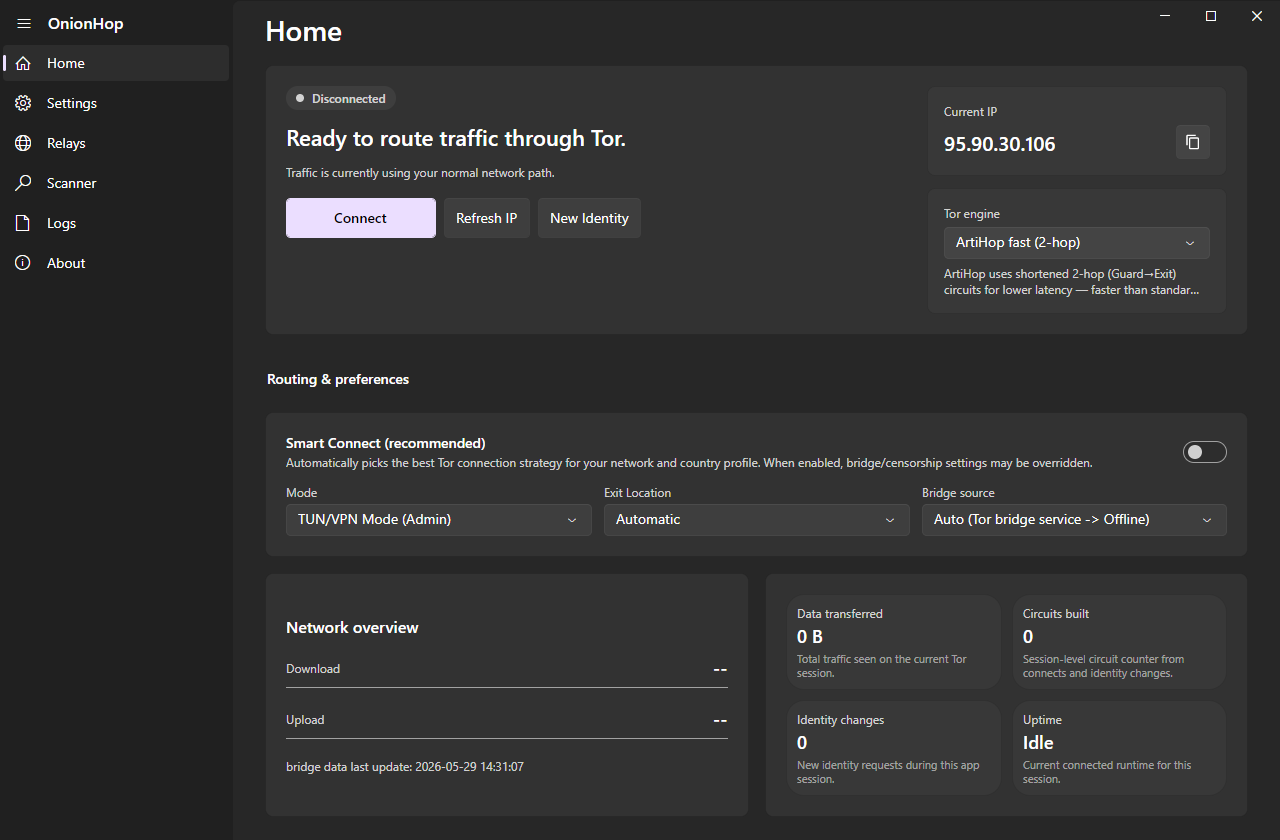
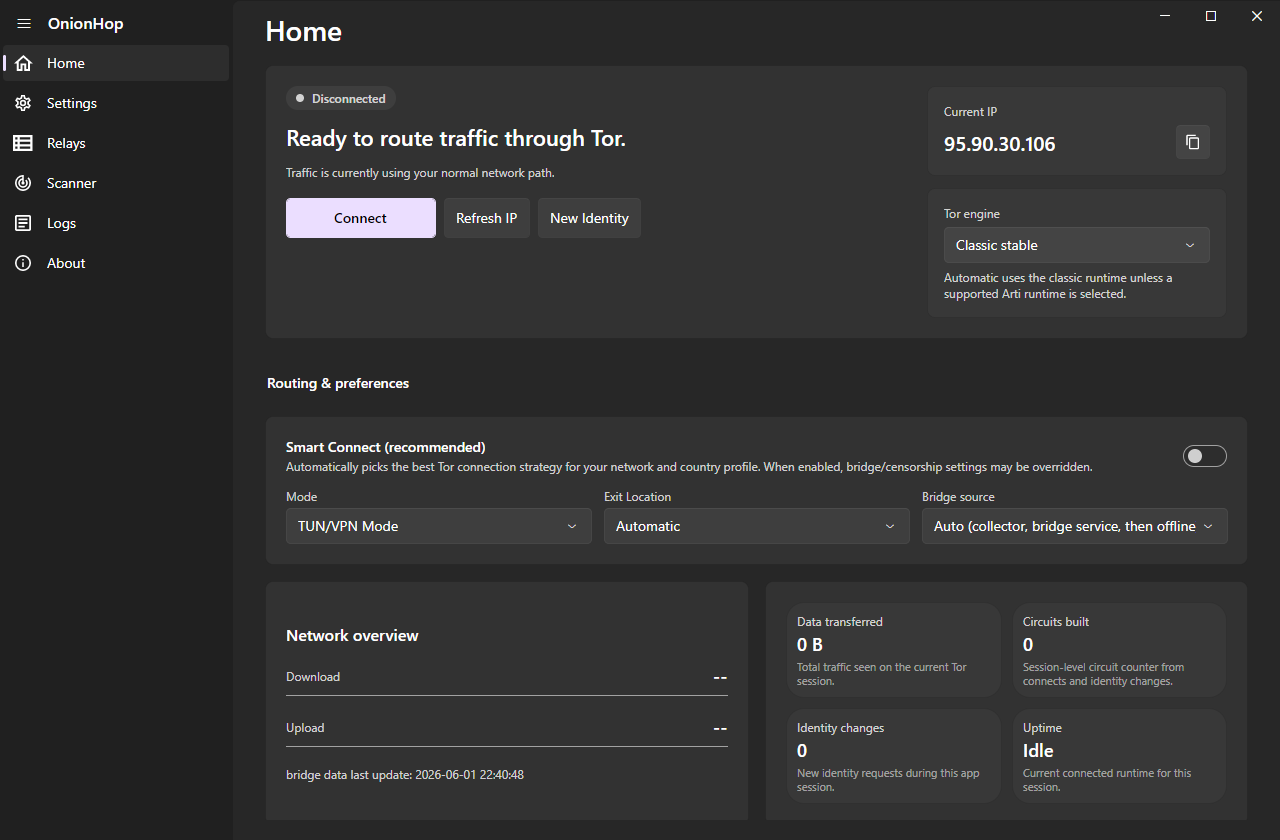
docs: cross-platform README + refreshed v3 screenshot for the v3.0.0 launch

diff --git a/README.md b/README.md
@@ -9,7 +9,7 @@
 </div>
 
 <div align="center">
-  <a href="https://github.com/center2055/OnionHop/releases">
+  <a href="https://github.com/center2055/OnionHop/releases/latest">
     <img src="https://img.shields.io/badge/Download-Latest%20Release-blue?style=for-the-badge&logo=github" alt="Download Latest Release"/>
   </a>
   <a href="https://ko-fi.com/center2055">
@@ -17,63 +17,70 @@
   </a>
 </div>
 
-**OnionHop V3** is a modern Windows desktop app that routes your traffic through **Tor**, with a redesigned native Windows 11 / Fluent interface and a chromeless, integrated title bar. It can run Tor as a local SOCKS proxy or as a system-wide tunnel, scan and pick working bridges for censored networks, and even let you volunteer as a Snowflake proxy.
+<div align="center">
+  <img src="https://img.shields.io/badge/Windows-0078D6?style=flat&logo=windows&logoColor=white" alt="Windows"/>
+  <img src="https://img.shields.io/badge/macOS-000000?style=flat&logo=apple&logoColor=white" alt="macOS"/>
+  <img src="https://img.shields.io/badge/Linux-FCC624?style=flat&logo=linux&logoColor=black" alt="Linux"/>
+</div>
+
+**OnionHop V3** is a modern, **cross-platform** desktop app (Windows, macOS and Linux) that routes your traffic through **Tor**. It can run Tor as a local SOCKS proxy or as a system-wide tunnel, automatically pick a working connection strategy for your network with **Smart Connect**, scan and apply working bridges for censored networks across every transport, and even let you volunteer as a Snowflake proxy.
 
 > **Disclaimer**
 > OnionHop is provided "as-is". Tor usage can be illegal or restricted in some jurisdictions. You are responsible for complying with local laws and regulations.
 
 ---
 
-## What's new in V3
+## What's new in V3 (since v2.7)
 
-- **Redesigned UI** — native Windows 11 / Fluent look (FluentAvalonia), light/dark/follow-system themes, an accent picker, and an integrated chromeless title bar (no separate OS title bar, still fully draggable).
-- **Three Tor engines** — choose per connection:
-  - **Classic** (`tor.exe`): full control — bridges, country/entry/exit pinning, and control-port **New Identity** (NEWNYM).
-  - **Arti**: the Rust Tor implementation.
-  - **ArtiHop (2-hop)**: shortened Guard→Exit circuits for lower latency (faster than standard 3-hop, with correspondingly weaker anonymity), now with live **New Identity** support.
-- **Bridge Scanner** — fetch and TCP-test bridges of **every transport type** (obfs4, webtunnel, vanilla, snowflake, meek, conjure), see color-coded reachability/latency, and export or one-click apply the bridges that actually work on your network. Fronted transports (snowflake/meek/conjure) are tested by probing their broker/front host.
+V3 is a ground-up rebuild on a new cross-platform UI stack, with a much smarter connection engine and a far wider set of censorship-resistant transports.
+
+- **Now cross-platform** — native desktop builds for **Windows**, **macOS** (signed & notarized universal app) and **Linux** (AppImage). Same app, native look on each OS.
+- **Redesigned UI** — Fluent/native look (FluentAvalonia), light/dark/follow-system themes, an accent picker, an integrated chromeless title bar on Windows and native window chrome on macOS, and **5 languages** (English, German, French, Chinese, Russian).
+- **Smart Connect** — an offline censorship "brain" that auto-picks the best connection strategy for your network and country: it knows where Tor is blocked, prefers transports that survive there, pre-tests bridge reachability, races strategies in parallel, fails fast off dead paths, and remembers what worked on each network so the next connect is instant.
+- **Three Tor engines** — **Classic** (`tor.exe`, full control: bridges, country/entry/exit pinning, control-port New Identity), **Arti** (the Rust Tor implementation), and **ArtiHop** (shortened 2-hop Guard→Exit circuits for lower latency, with live New Identity).
+- **More censorship-resistant transports** — obfs4, **snowflake** (with optional AMP-cache fronting), **webtunnel**, **conjure**, meek, and **dnstt** (a DNS tunnel that gets Tor through when only DNS is allowed).
+- **Bridge Scanner** — fetch and reachability-test bridges of every transport, see color-coded latency, and one-click apply the ones that actually work on your network.
+- **More bridge sources** — the official Tor bridge service, the censorship-resistant [OnionHop Bridges Collector](https://github.com/center2055/OnionHop-Bridges-Collector) (derived from [Delta-Kronecker/Tor-Bridges-Collector](https://github.com/Delta-Kronecker/Tor-Bridges-Collector)), built-in community bridges, and a thin-set top-up so a tiny live fetch is automatically backed by bundled bridges.
+- **Relays browser** — search the live Tor relay list by nickname, country, role, flags and bandwidth, and pin a preferred entry/middle/exit.
+- **Command-line interface** — a full-featured TUI (`OnionHopV3.Cli`) with a live status dashboard, connect/scan/bridges/snowflake/relays commands and settings persistence. *(Windows now; Linux & macOS CLI coming soon.)*
+- **Stronger leak protection** — optional full DNS-over-Tor, a kill switch, UDP blocking in TUN mode, and an in-app WebRTC/UDP privacy notice.
 - **Volunteer as a Snowflake proxy** — help censored users reach Tor, straight from Settings.
-- **Decoupled system-proxy toggle** — turn the Windows system proxy off while Tor stays connected.
-- **Stronger leak protection** — optional full DNS-over-Tor so system DNS doesn't bypass Tor in Proxy Mode, plus an in-app WebRTC/UDP privacy notice.
-- **Extra bridge source** — an additional, censorship-resistant [bridge collector](https://github.com/center2055/OnionHop-Bridges-Collector) endpoint is used as a fallback when the official bridge service is unavailable.
+- **Quality-of-life** — decoupled system-proxy toggle (turn it off while Tor stays connected), an opt-in persistent admin helper to skip repeat UAC prompts in TUN mode (off by default), an in-app changelog, and Bitcoin donations.
+
+---
+
+## Download
+
+Grab the latest build for your platform from **[Releases](https://github.com/center2055/OnionHop/releases/latest)**:
+
+| Platform | File | Notes |
+| :--- | :--- | :--- |
+| **Windows** | `OnionHop-Setup-v3.exe` | Installer (self-contained, .NET runtime bundled) |
+| **Windows** | `OnionHopV3-Portable-…win-x64.zip` | Portable, no install |
+| **Linux** | `OnionHop-x86_64.AppImage` | `chmod +x` and run |
+| **macOS** | `OnionHop-3.0.0-macOS.dmg` | Signed & notarized; universal (Apple Silicon + Intel) — from the [macOS repo](https://github.com/rana-gmbh/onionhopMac/releases/latest) |
+| **Windows CLI** | `OnionHop-CLI-Setup-3.0.0.exe` / `…Portable…zip` | Terminal interface |
+
+> The macOS `.dmg` is published from the dedicated, code-signing [rana-gmbh/onionhopMac](https://github.com/rana-gmbh/onionhopMac/releases/latest) repository.
 
 ---
 
 ## Getting started
 
-1. **Install**
-   - Download the latest release from [Releases](https://github.com/center2055/OnionHop/releases).
-   - Run the Windows installer (`OnionHop-Setup-v3.exe`). It is self-contained — the .NET 9 runtime is bundled, so there's nothing else to install.
+1. **Install** the build for your OS (above). The Windows installer and the macOS/Linux bundles are self-contained — the .NET 9 runtime is bundled.
 
 2. **Choose a mode**
-   - **Proxy Mode (recommended, no admin):** starts Tor locally and points the Windows system proxy at Tor's local SOCKS5 endpoint. Best compatibility for proxy-aware apps.
-   - **TUN/VPN Mode (admin):** system-wide routing via **sing-box** + **Wintun**; needed for apps that ignore proxy settings. Leak-resistant (DNS through Tor, UDP blocked).
+   - **Proxy Mode (recommended, no admin):** runs Tor locally and points the OS system proxy at Tor's local SOCKS5 endpoint. Best compatibility for proxy-aware apps.
+   - **TUN/VPN Mode (admin):** system-wide routing via **sing-box** (Wintun on Windows, the system TUN on macOS/Linux); needed for apps that ignore proxy settings. Leak-resistant (DNS through Tor, UDP blocked).
 
 3. **Connect**
-   - Optionally pick a **Tor engine**, an **Exit Location** (and an **Entry Node** in Advanced settings).
-   - Enable **Bridges** if your network blocks Tor — or open the **Scanner** to find bridges that work in your region.
+   - Leave **Smart Connect** on to let OnionHop pick the best strategy automatically, **or** pick a **Tor engine** / **Exit Location** / **Bridges** yourself.
+   - In a censored network, enable **Bridges** or open the **Scanner** to find bridges that work in your region.
    - Click **Connect**.
 
 Notes
 - `.onion` sites require a Tor-aware client (Tor Browser recommended) or SOCKS remote DNS (e.g., Firefox "Proxy DNS when using SOCKS v5").
 - Bridges, country/relay pinning and control-port New Identity require the **Classic** engine; Arti/ArtiHop run as a SOCKS proxy runtime.
-
----
-
-## Startup activity and permissions
-
-On startup OnionHop runs a few background tasks so the UI shows status immediately and is ready when you connect. It may:
-
-- look up your current public IP status,
-- refresh the Tor relay country list (Onionoo),
-- fetch GitHub release/changelog metadata for update and About surfaces,
-- ensure Tor / pluggable-transport dependencies exist (first run can download Tor components).
-
-### Permissions
-
-- **Network access** — IP checks, Onionoo country data, GitHub release metadata, bridge sources, and dependency downloads.
-- **Administrator** — only for features that change system networking: **TUN/VPN mode**, **kill switch**, or system **DNS/proxy** changes.
-- **Folder access** — store settings, startup logs, runtime data, downloaded Tor/VPN binaries, bridge cache, and any log export location you choose.
 
 ---
 
@@ -90,22 +97,23 @@ On startup OnionHop runs a few background tasks so the UI shows status immediate
 ## Modes explained
 
 ### Proxy Mode (recommended)
-Starts Tor locally and sets the Windows proxy to Tor's SOCKS5 endpoint. No admin required. You can toggle the system proxy off without disconnecting Tor.
+Runs Tor locally and sets the OS proxy to Tor's SOCKS5 endpoint. No admin required. You can toggle the system proxy off without disconnecting Tor.
 
 ### TUN/VPN Mode (admin)
-Starts Tor + **sing-box** and routes traffic at the OS level (Wintun on Windows). Requires Administrator. Most leak-resistant.
+Runs Tor + **sing-box** and routes traffic at the OS level (Wintun on Windows, system TUN on macOS/Linux). Requires Administrator. Most leak-resistant.
 
 ### Hybrid (split tunneling)
 Only in TUN/VPN Mode — route selected apps through Tor while others stay direct.
 
 ---
 
-## Settings storage
+## Permissions
 
-OnionHop stores settings and runtime data in the OS application-data folders, e.g.:
+- **Network access** — IP checks, Onionoo relay/country data, GitHub release metadata, bridge sources, and dependency downloads.
+- **Administrator / root** — only for features that change system networking: **TUN/VPN mode**, **kill switch**, or system **DNS/proxy** changes.
+- **Folder access** — store settings, logs, runtime data, downloaded Tor/transport binaries, the bridge cache, and any log export location you choose.
 
-- `%AppData%\OnionHop\settings.json`
-- `%LocalAppData%\OnionHop\startup.log`
+Settings and runtime data live in the OS application-data folders, e.g. `%AppData%\OnionHop\settings.json` (Windows) or `~/Library/Application Support/OnionHop/` (macOS).
 
 ---
 
@@ -113,27 +121,27 @@ OnionHop stores settings and runtime data in the OS application-data folders, e.
 
 Prerequisites:
 - .NET SDK 9
-- Inno Setup 6 (for the installer)
-- *(optional)* Rust toolchain to build the **ArtiHop** engine, and Go to build the **Snowflake proxy** / **webtunnel** client — these are fetched/built by `download-deps.ps1`; if a toolchain is missing, that engine/feature is simply skipped.
+- Inno Setup 6 (Windows installer)
+- *(optional)* Rust toolchain to build the **ArtiHop** engine, and Go to build the **Snowflake proxy** / **webtunnel** / **dnstt** clients — these are fetched/built by the dependency scripts; if a toolchain is missing, that engine/feature is simply skipped.
 
-Fetch runtime dependencies (Tor, pluggable transports, sing-box, xray, Wintun, ArtiHop, Snowflake proxy):
+Fetch runtime dependencies (Tor, pluggable transports, sing-box, Wintun, ArtiHop, Snowflake proxy):
 
 ```powershell
+# Windows
 powershell -NoProfile -ExecutionPolicy Bypass -File download-deps.ps1
 ```
-
-Build the V3 installer (self-contained, Windows x64):
-
-```powershell
-powershell -NoProfile -ExecutionPolicy Bypass -File installer/build-installer-v3.ps1
+```bash
+# macOS / Linux
+./download-deps.sh
 ```
 
-Output:
-- `installer/output/OnionHop-Setup-v3.exe`
-
-Run the app from source:
+Build & run:
 
 ```powershell
+# Windows installer (self-contained, x64) -> installer/output/OnionHop-Setup-v3.exe
+powershell -NoProfile -ExecutionPolicy Bypass -File installer/build-installer-v3.ps1
+
+# Run from source
 dotnet run --project OnionHop/src/OnionHopV3.App -c Release
 ```
 